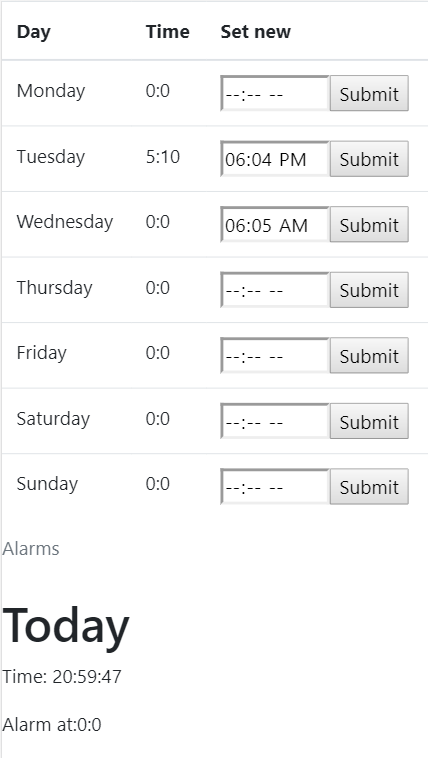
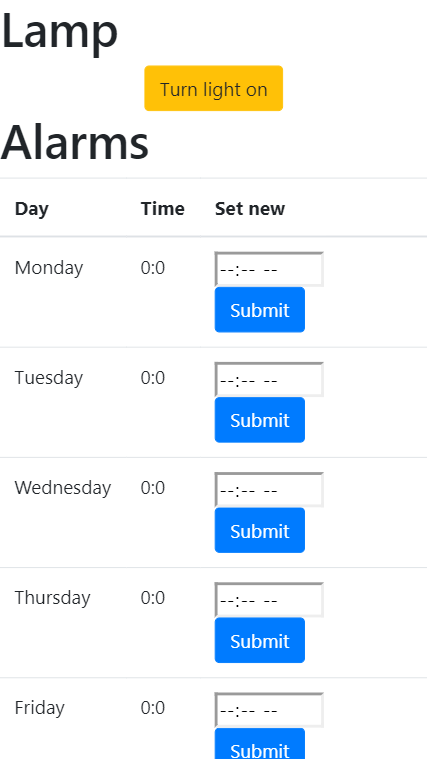
Version 1.1
Now with lamp feature

diff --git a/src/HelloServer.cpp b/src/HelloServer.cpp
@@ -30,6 +30,9 @@ int timeTargetSunday = 0;
 
 int loopTick = 0;
 
+bool lampEnabled = false;
+int lampBrightness = 75;
+
 int currentTimeMoment()
 {
 	timeClient.update();
@@ -38,6 +41,19 @@ int currentTimeMoment()
 	int sec = timeClient.getSeconds();
 
 	return hour + minute + sec;
+}
+
+void changeLEDWithPercentage(int percentage)
+{
+	if (percentage < 0 || percentage > 100)
+		return;
+
+	int realLevel = (((double)percentage / 100) * 255);
+	analogWrite(4, realLevel);
+	Serial.print("Setting LED to percentage: ");
+	Serial.print(percentage);
+	Serial.print("% digital: ");
+	Serial.println(realLevel);
 }
 
 int nextAlarm()
@@ -67,7 +83,8 @@ int nextAlarm()
 
 void handleRoot()
 {
-	server.send(202, "text/plain", "self-destruction confirmed...");
+	const char *destructionMessage = R""""(Self-destruction started...)"""";
+	server.send(202, "text/plain", destructionMessage);
 }
 
 void handle404()
@@ -157,9 +174,15 @@ void handleStatus()
 	message += "</head>";
 
 	message += "<body>";
-	message += "<table class=\"table\">";
-	message += "<caption>Alarms </caption>";
 
+	message += "<h1>Lamp</h1>";
+	message += "<form action=\"/toggle_lamp\">";
+	message += "<input type=\"submit\" class=\"btn btn-warning\" style=\"display: block; margin: auto;\" value=\"";
+	message += lampEnabled ? "Turn light off" : "Turn light on";
+	message += "\"></form>";
+
+	message += "<h1>Alarms</h1>";
+	message += "<table class=\"table\">";
 	message += "<thead>";
 	message += "<tr>";
 	message += "<th>Day</th>";
@@ -183,7 +206,7 @@ void handleStatus()
 	message += "<form action=\"/update_clock\">";
 	message += "<input type=\"hidden\" name=\"day\" value=\"1\">";
 	message += "<input type=\"time\" name=\"new_time\">";
-	message += "<input type=\"submit\"></form>";
+	message += "<input type=\"submit\" class=\"btn btn-primary\"></form>";
 	message += "</td>";
 	message += "</tr>";
 
@@ -201,7 +224,7 @@ void handleStatus()
 	message += "<form action=\"/update_clock\">";
 	message += "<input type=\"hidden\" name=\"day\" value=\"2\">";
 	message += "<input type=\"time\" name=\"new_time\">";
-	message += "<input type=\"submit\"></form>";
+	message += "<input type=\"submit\" class=\"btn btn-primary\"></form>";
 	message += "</td>";
 	message += "</tr>";
 
@@ -219,7 +242,7 @@ void handleStatus()
 	message += "<form action=\"/update_clock\">";
 	message += "<input type=\"hidden\" name=\"day\" value=\"3\">";
 	message += "<input type=\"time\" name=\"new_time\">";
-	message += "<input type=\"submit\"></form>";
+	message += "<input type=\"submit\" class=\"btn btn-primary\"></form>";
 	message += "</td>";
 	message += "</tr>";
 
@@ -237,7 +260,7 @@ void handleStatus()
 	message += "<form action=\"/update_clock\">";
 	message += "<input type=\"hidden\" name=\"day\" value=\"4\">";
 	message += "<input type=\"time\" name=\"new_time\">";
-	message += "<input type=\"submit\"></form>";
+	message += "<input type=\"submit\" class=\"btn btn-primary\"></form>";
 	message += "</td>";
 	message += "</tr>";
 
@@ -255,7 +278,7 @@ void handleStatus()
 	message += "<form action=\"/update_clock\">";
 	message += "<input type=\"hidden\" name=\"day\" value=\"5\">";
 	message += "<input type=\"time\" name=\"new_time\">";
-	message += "<input type=\"submit\"></form>";
+	message += "<input type=\"submit\" class=\"btn btn-primary\"></form>";
 	message += "</td>";
 	message += "</tr>";
 
@@ -273,7 +296,7 @@ void handleStatus()
 	message += "<form action=\"/update_clock\">";
 	message += "<input type=\"hidden\" name=\"day\" value=\"6\">";
 	message += "<input type=\"time\" name=\"new_time\">";
-	message += "<input type=\"submit\"></form>";
+	message += "<input type=\"submit\" class=\"btn btn-primary\"></form>";
 	message += "</td>";
 	message += "</tr>";
 
@@ -291,28 +314,42 @@ void handleStatus()
 	message += "<form action=\"/update_clock\">";
 	message += "<input type=\"hidden\" name=\"day\" value=\"7\">";
 	message += "<input type=\"time\" name=\"new_time\">";
-	message += "<input type=\"submit\"></form>";
+	message += "<input type=\"submit\" class=\"btn btn-primary\"></form>";
 	message += "</td>";
 	message += "</tr>";
 	message += "</tbody>";
 
 	message += "</table>";
 
-	message += "<h1>Today</h1>";
+	message += "<h1>Status</h1>";
 
-	message += "<p>Time: ";
+	message += "<table class=\"table\">";
+	message += "<thead>";
+	message += "<tr>";
+	message += "<th>Time</th>";
+	message += "<th>Alarm at</th>";
+	message += "<th>Time remaining</th>";
+	message += "</tr>";
+	message += "</thead>";
+
+	message += "<tbody>";
+	message += "<tr>";
+
+	message += "<td>";
 	message += timeClient.getFormattedTime();
-	message += "</p>";
-
-	message += "<p> Alarm at:";
+	message += "</td>";
+	message += "<td>";
 	message += nextAlarm() / 3600;
 	message += ":";
 	message += (nextAlarm() % 3600) / 60;
-	message += "</p>";
-
-	message += "<p> Time remaining:";
+	message += "</td>";
+	message += "<td>";
 	message += nextAlarm() - currentTimeMoment();
-	message += "</p>";
+	message += "</td>";
+
+	message += "</tr>";
+	message += "</tbody>";
+	message += "</table>";
 
 	message += "</body>";
 	message += "</html>";
@@ -391,6 +428,12 @@ void handleUpdateTime()
 	server.send(301);
 }
 
+void handleToggleLamp(){
+	lampEnabled = !lampEnabled;
+	server.sendHeader("Location", "/status");
+	server.send(301);
+}
+
 void setup(void)
 {
 	Serial.begin(9600);
@@ -426,6 +469,7 @@ void setup(void)
 
 	server.on("/debug", handleDebug);
 	server.on("/update_clock", handleUpdateTime);
+	server.on("/toggle_lamp", handleToggleLamp);
 	server.on("/status", handleStatus);
 
 	server.onNotFound(handle404);
@@ -461,8 +505,10 @@ void tickLight()
 		int difference = alarm - currentTimeMoment();
 		if (difference >= 0 && difference < 1800)
 		{
-			int value = (255 - (difference / 8.5)) - 40;
-			analogWrite(4, value);
+			//maximum: 85%
+			//minimum: 0.1%
+			int value = 85 - (difference / 21.2);
+			changeLEDWithPercentage(value);
 
 			Serial.print("Waking up in ");
 			Serial.print(difference);
@@ -471,8 +517,10 @@ void tickLight()
 		}
 		else if (difference >= -300 && difference < 0)
 		{
-			int value = 215 - difference * -1 * 0.7;
-			analogWrite(4, value);
+			//Max: 84.3%
+			//Min: -0.7% techinally, but in reallity, 0.2%
+			int value = 85 + (difference / 3.5);
+			changeLEDWithPercentage(value);
 			Serial.print("You have will have been already waken up in ");
 			Serial.print(difference);
 			Serial.print("... dim: ");
@@ -484,9 +532,18 @@ void tickLight()
 			Serial.print(difference > 0 ? difference - 1800 : difference);
 			Serial.println(")... idling");
 
-			analogWrite(4, 0);
+			changeLEDWithPercentage(0);
 		}
 	}
+}
+
+bool tickLamp()
+{
+	if(lampEnabled){
+		changeLEDWithPercentage(lampBrightness);
+		Serial.println("Lamp feature on!");
+	}
+	return lampEnabled;
 }
 
 void loop(void)
@@ -496,7 +553,8 @@ void loop(void)
 	loopTick = (loopTick + 1) % 10;
 	if (loopTick == 0)
 	{
-		tickLight();
+		if (!tickLamp())
+			tickLight();
 	}
 
 	delay(100);

diff --git a/README.md b/README.md
@@ -25,6 +25,6 @@ Written using parts of Bootstrap.
 
 ## Future plans:
  
-- Normal lamp function
+- ~~Normal lamp function~~
 - Controlling buttons
 - Google Assistant support
